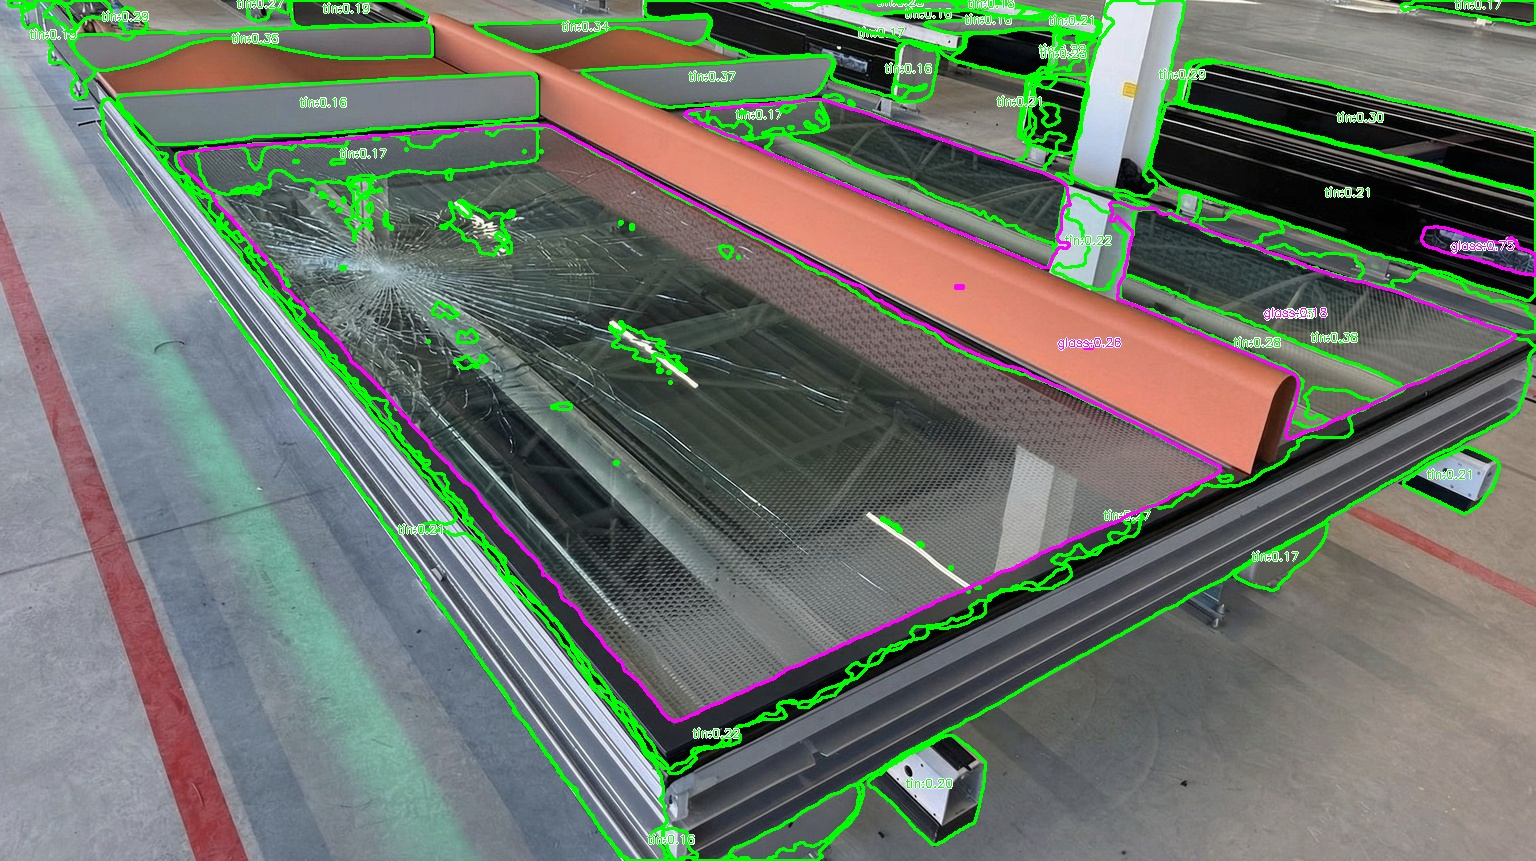
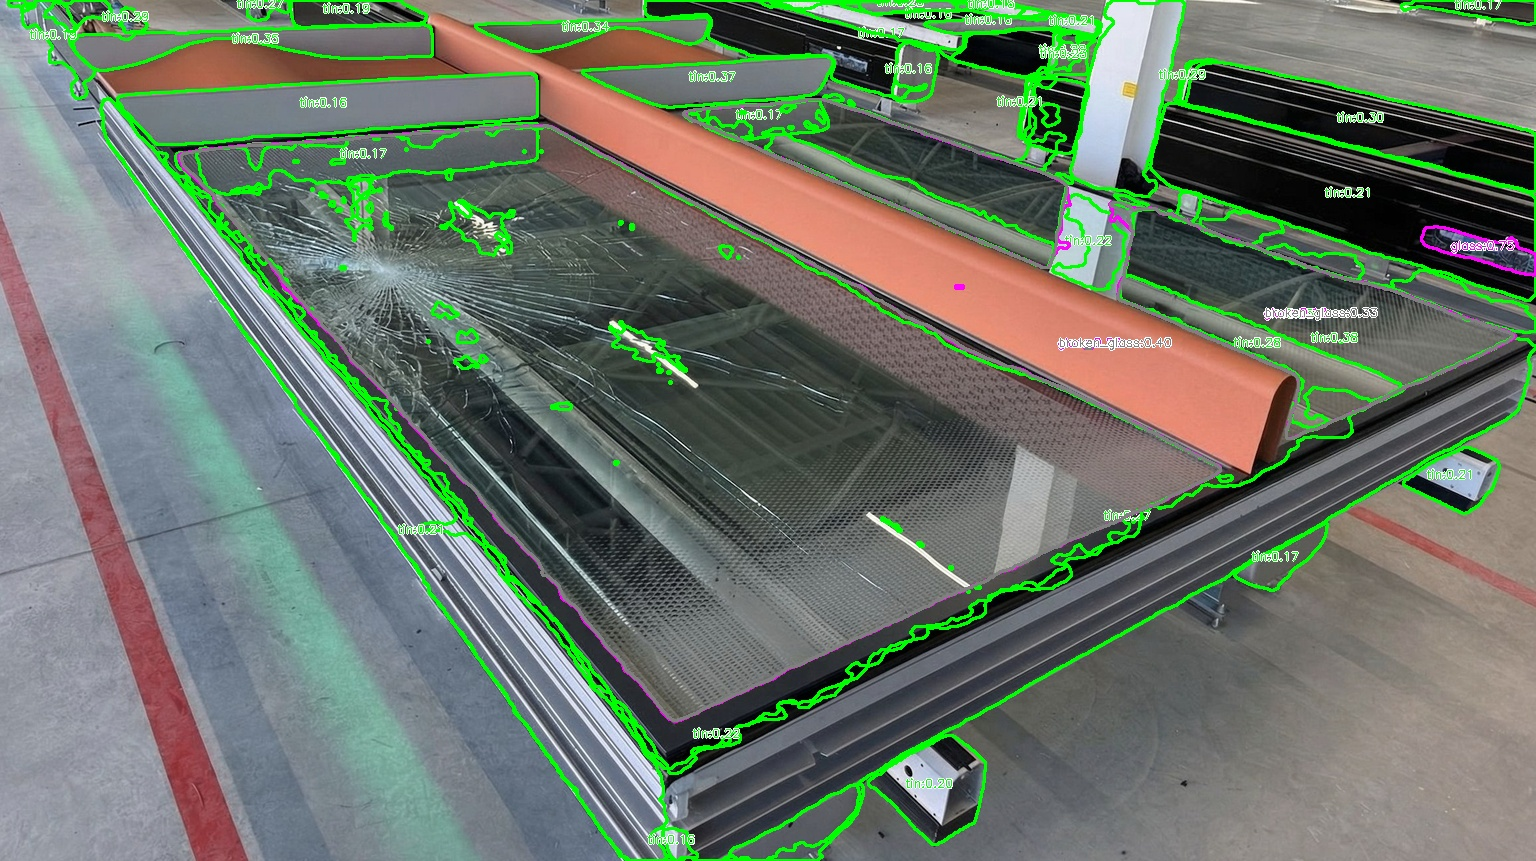
hope you aren't reading this commit message

diff --git a/app/backend/ai/neodata2/combined_detector.py b/app/backend/ai/neodata2/combined_detector.py
@@ -44,8 +44,8 @@ CONFIDENCE_THRESHOLD = 0.6  # Min confidence to report
 
 
 # SCREW/GLASS/SEAL DETECTION (currently disabled)
-ENABLE_SCREW_DETECTION = False
-ENABLE_GLASS_DETECTION = False
+ENABLE_SCREW_DETECTION = True
+ENABLE_GLASS_DETECTION = True
 ENABLE_SEAL_DETECTION = False
 
 # =============================================================================
@@ -274,13 +274,61 @@ def run_combined_detection():
             
             # === SCREW DEFECT DETECTION ===
             if ENABLE_SCREW_DETECTION:
-                # Add screw detection logic here
-                pass
+                # Label as missing screw if a circular hole exists without a screw in it
+                import numpy as np
+                screw_centers = []
+                for m in screw_masks:
+                    bbox = m.get('bbox')
+                    if bbox:
+                        x_min, y_min, x_max, y_max = bbox
+                        cx = (x_min + x_max) / 2
+                        cy = (y_min + y_max) / 2
+                        screw_centers.append((cx, cy))
+                # For each hole, check if a screw is present nearby
+                threshold = min(w, h) * 0.08  # 8% of image size as matching threshold
+                missing_flagged = False
+                for m in hole_masks:
+                    if missing_flagged:
+                        break
+                    bbox = m.get('bbox')
+                    area = m.get('area_pixels', m.get('area', 0))
+                    if bbox and area > 0:
+                        # Only consider very small, very circular holes (area < 0.2% of image, aspect ratio ~1)
+                        if area < 0.002 * w * h:
+                            x_min, y_min, x_max, y_max = bbox
+                            width = x_max - x_min
+                            height = y_max - y_min
+                            aspect_ratio = width / height if height > 0 else 0
+                            if 0.6 < aspect_ratio < 1.5:
+                                cx = (x_min + x_max) / 2
+                                cy = (y_min + y_max) / 2
+                                # Check if any screw is close to this hole
+                                found = False
+                                for sx, sy in screw_centers:
+                                    dist = np.hypot(sx - cx, sy - cy)
+                                    if dist < threshold:
+                                        found = True
+                                        break
+                                if not found:
+                                    defects.append({
+                                        'component': 'screw',
+                                        'type': 'missing',
+                                        'confidence': 0.85,
+                                        'hole_position': [cx, cy],
+                                        'source': 'hole_without_screw'
+                                    })
+                                    missing_flagged = True
             
             # === GLASS DEFECT DETECTION ===
             if ENABLE_GLASS_DETECTION:
-                # Add glass detection logic here
-                pass
+                broken_glass_masks = components.get('broken_glass', [])
+                if broken_glass_masks:
+                    defects.append({
+                        'component': 'glass',
+                        'type': 'cracked',
+                        'confidence': 0.85,
+                        'source': 'broken_glass_mask'
+                    })
             
             # === SEAL DEFECT DETECTION ===
             if ENABLE_SEAL_DETECTION:
